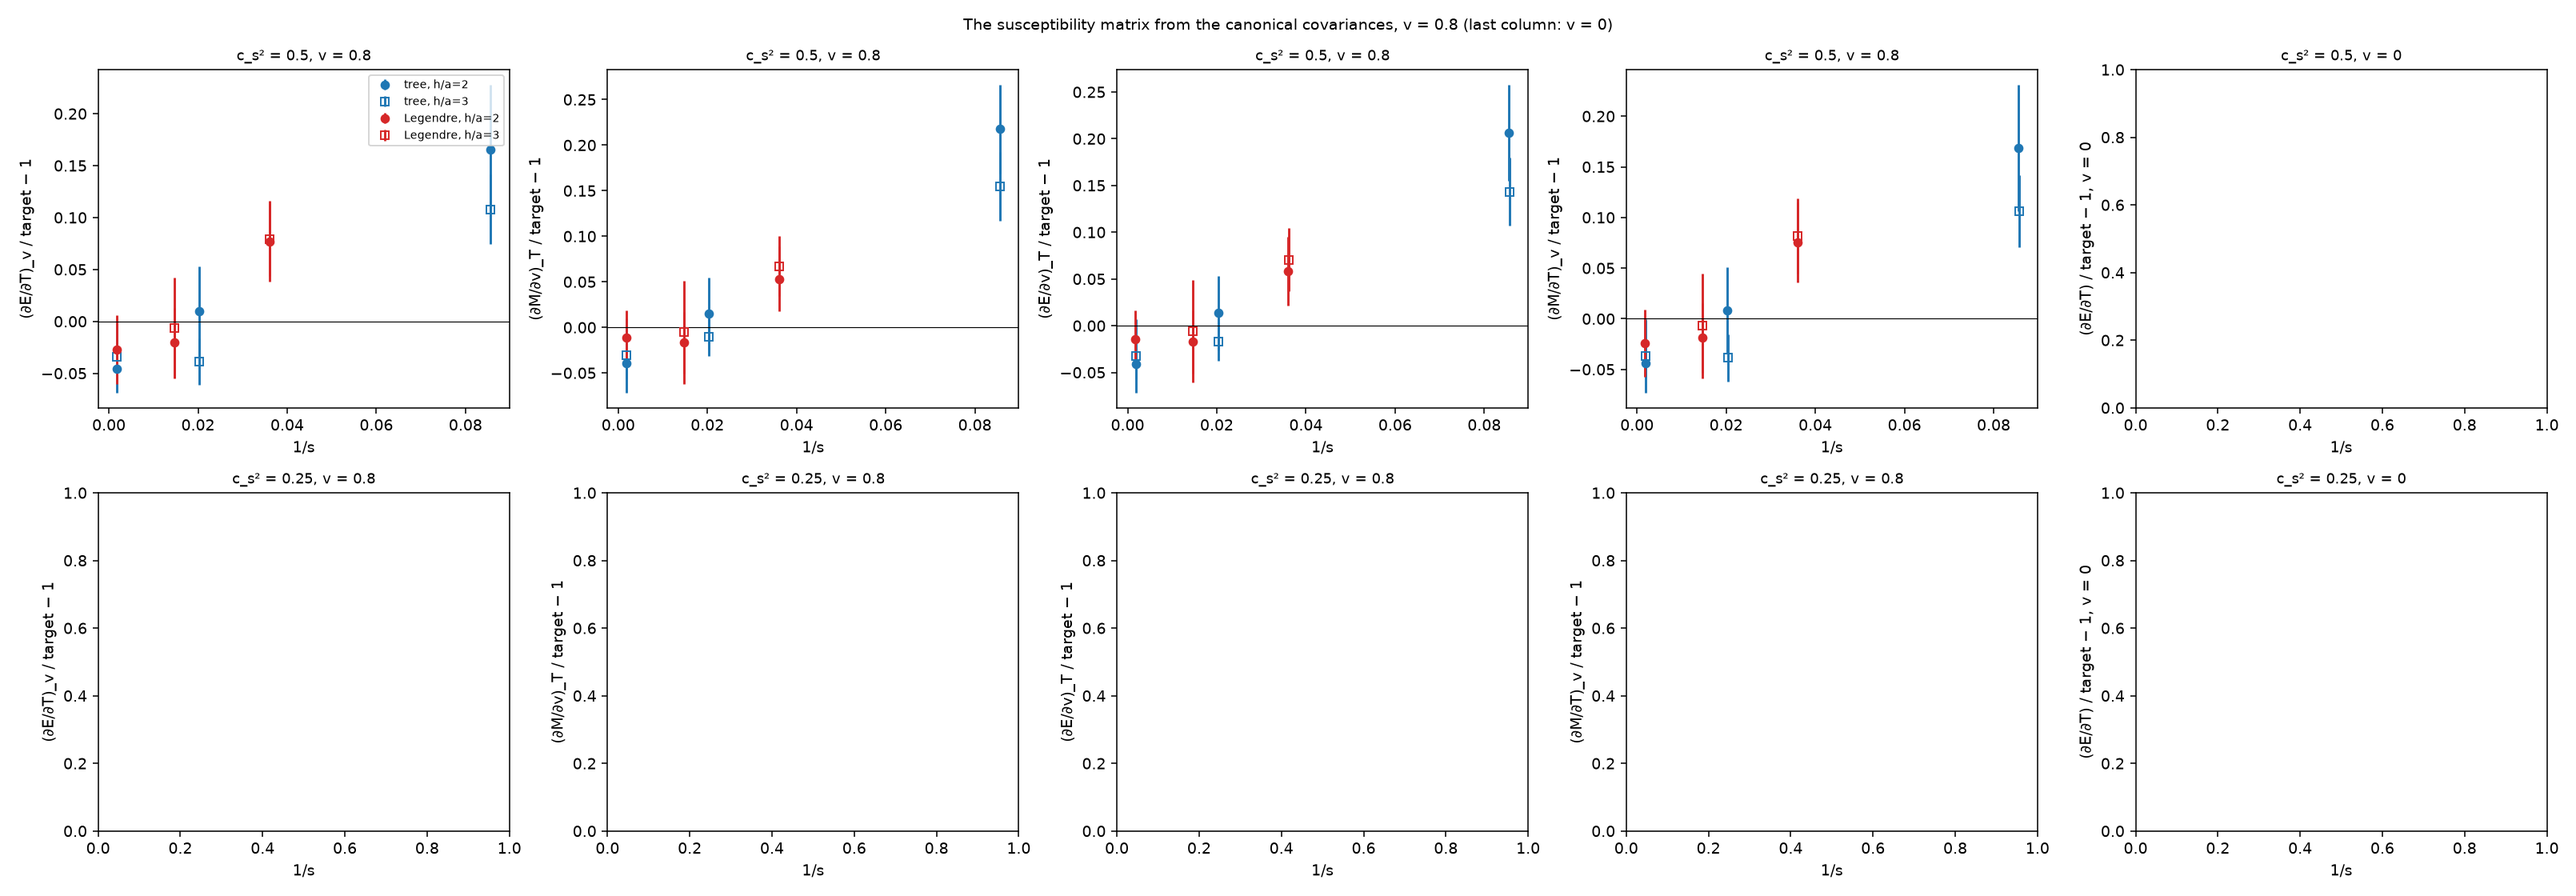
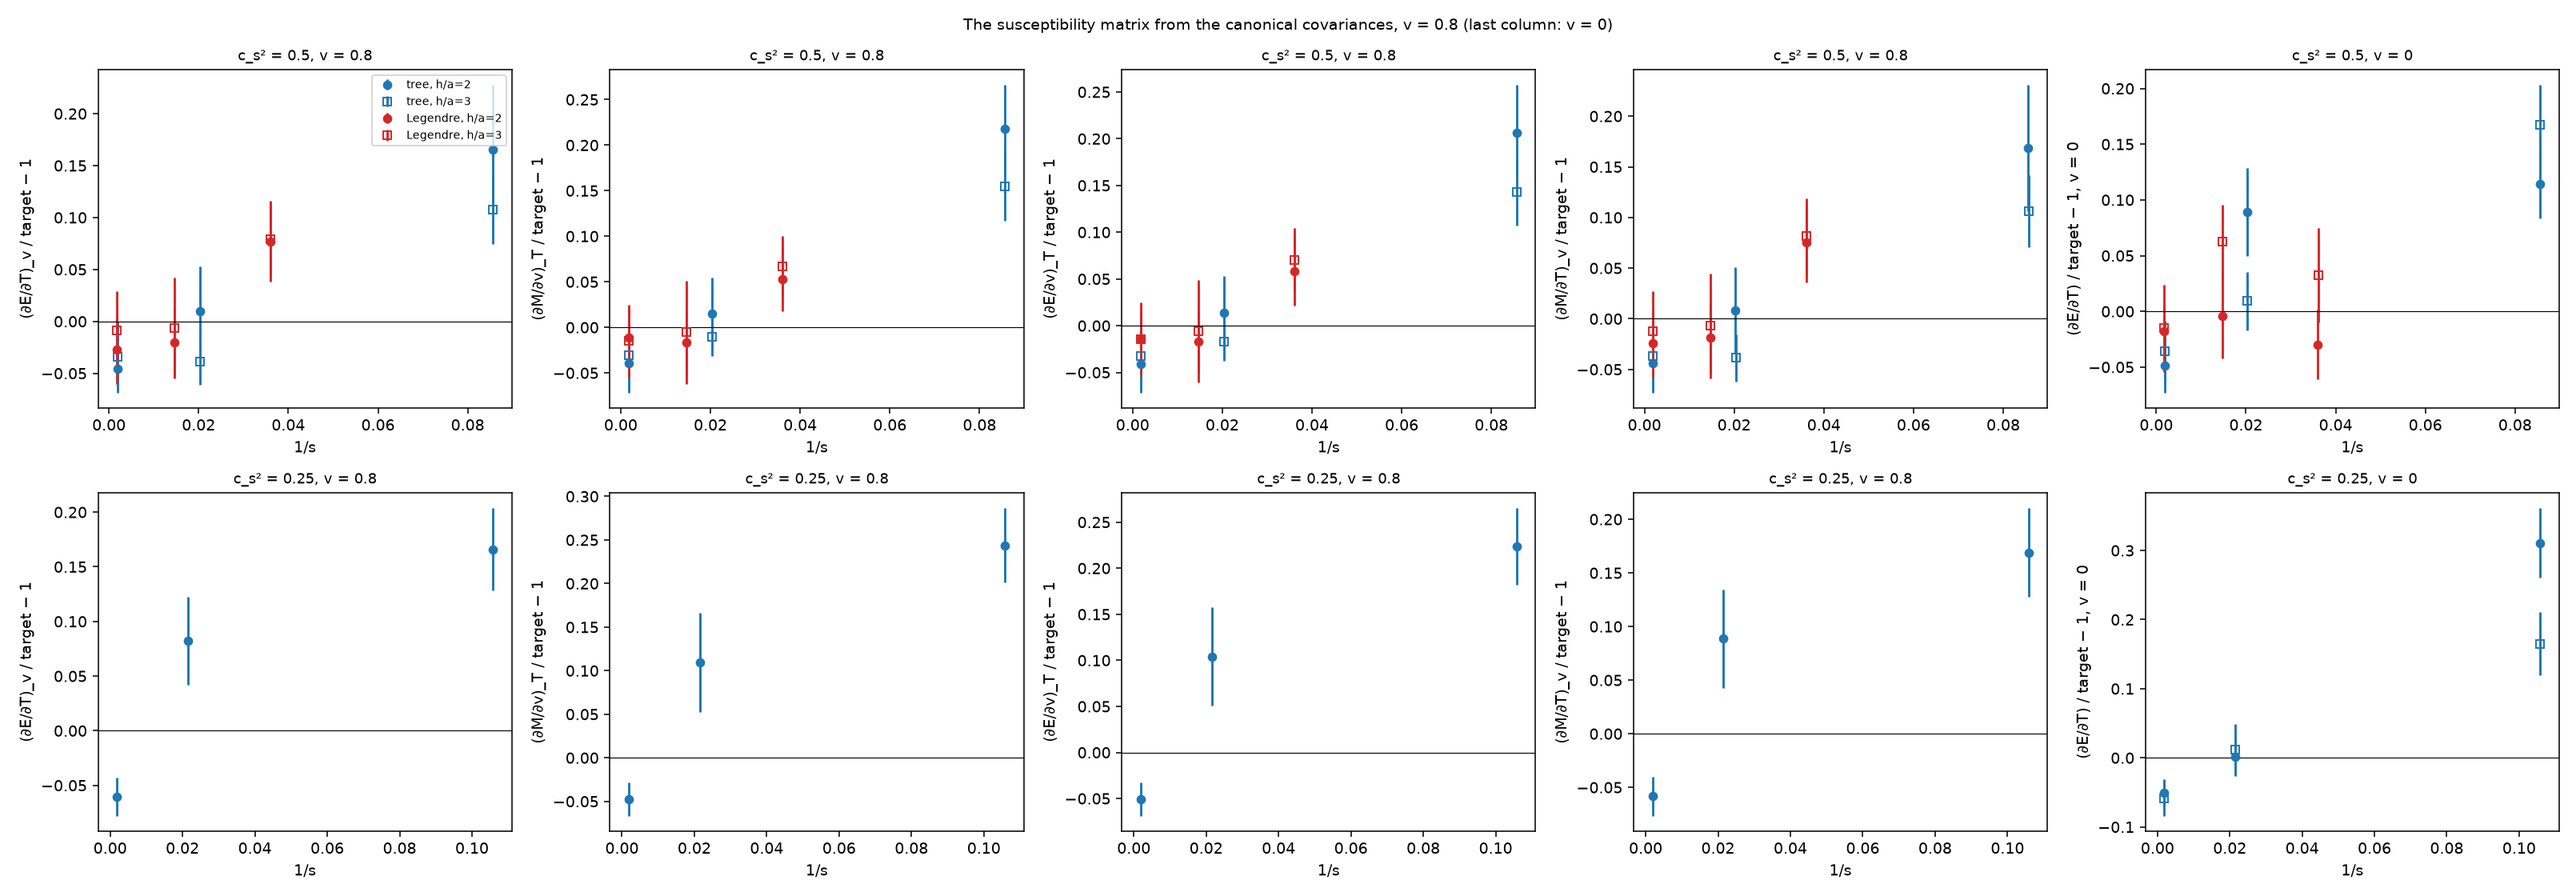
eos_legendre.py: the run-name velocity was overwritten by the seeds' measured v (NaN average at rest, empty rest figure); M, R NaN at rest, P/p-1 not at v = 0.8; LOG: clean switch-off regression (61825713)

diff --git a/examples/eos_legendre.py b/examples/eos_legendre.py
@@ -21,7 +21,7 @@ ROOT = sys.argv[1]
 FIG = sys.argv[2] if len(sys.argv) > 2 else os.path.join(os.path.dirname(__file__), "..", "docs", "figs")
 os.makedirs(FIG, exist_ok=True)
 pat = re.compile(r"eosL_(tree|leg|ren1)_c(05|025)_s(\d+)_ha(\d)_v(0|08)$")
-KEYS = ["sigma", "T0", "v", "acceptance", "E_over_e_minus1", "P_over_p_minus1", "Tyy_over_p_minus1", "M_over_target_minus1", "R",
+KEYS = ["sigma", "T0", "acceptance", "E_over_e_minus1", "P_over_p_minus1", "Tyy_over_p_minus1", "M_over_target_minus1", "R",
         "trace_over_nT", "Pkin_over_nT", "cs2_fixed_n", "dEdT_over_target_minus1", "dPdT_over_target_minus1",
         "chi_dEdT_over_target_minus1", "chi_dMdv_over_target_minus1", "chi_dEdv", "chi_dEdv_target", "chi_dMdT", "chi_dMdT_target",
         "chi_yy_over_target_minus1", "nbar_h2", "legendre_solves", "legendre_fails", "legendre_nostate", "seconds"]
@@ -58,6 +58,9 @@ for d in sorted(glob.glob(os.path.join(ROOT, "eosL_*"))):
         out[k + "_over_target_minus1"] = out[k] / out[k + "_target"] - 1 if out["v"] > 0 else np.nan
         out[k + "_over_target_minus1_sd"] = out[k + "_sd"] / abs(out[k + "_target"]) if out["v"] > 0 else np.nan
     c2 = out["c2"];  out["s_t"] = (1 + c2) * out["sigma"] / c2
+    # M and R are 0/0 at rest; at v = 0.8 the isotropic P is not compared with the rest-frame p (T^yy is)
+    for k in (("M_over_target_minus1", "R") if out["v"] == 0 else ("P_over_p_minus1",)):
+        out[k] = out[k + "_sd"] = np.nan
     runs[name] = out
 print(f"{len(runs)} runs")
 

diff --git a/nersc/LOG.md b/nersc/LOG.md
@@ -642,6 +642,9 @@ before going over 20).
   off: all unit, physics and load tests pass; regression against db139ef bit-identical except hast_lq_*.
 - **Campaign submitted**: job **61825274** (432 tasks, shared, -c 2, -t 2 h), run checkout `~/stochastic-sph-legR` (worktree at
   3c6fd46), output `$SCRATCH/sph/eos_legendre/`.  Estimate 216 × 5 min + 216 × 19 min on 2 threads ≈ 1.4 node-hours.
+- Clean switch-off regression of b474aef against db139ef (job 61825713, shared -c 64, 38 min): step.jl and stability drivers
+  IDENTICAL; equilibrium drivers differ only in hast_lq_* (known, thread order); unit-test output differs only in testcheckpoint
+  (wall-clock seconds) and testrunrecord (src/renorm.jl in the file list).  The suite reports FAIL for these reasons only.
 
 ### `eos_renorm` — 2026-11-21, `nersc/campaign_eos_renorm.txt`, branch `statics`, docs/gravity.tex — TO DO (note for the NERSC session)
 
